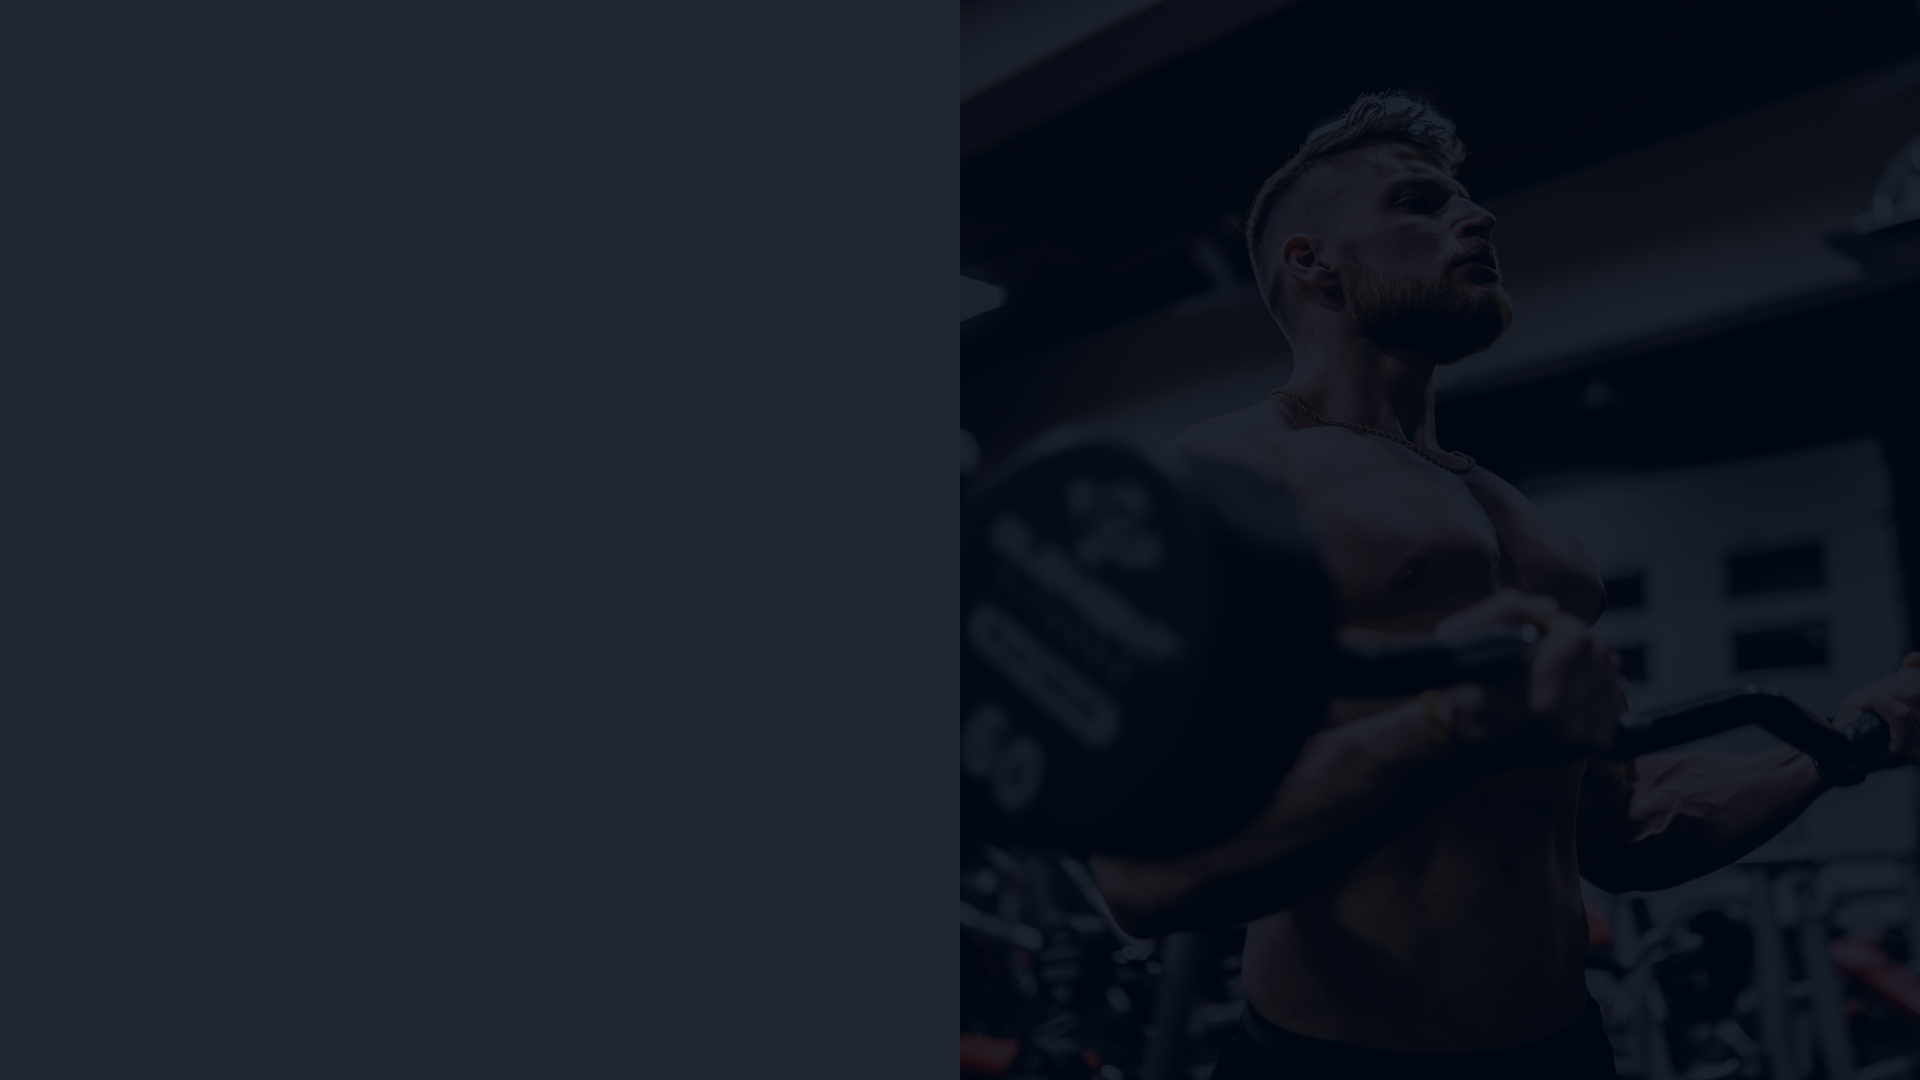
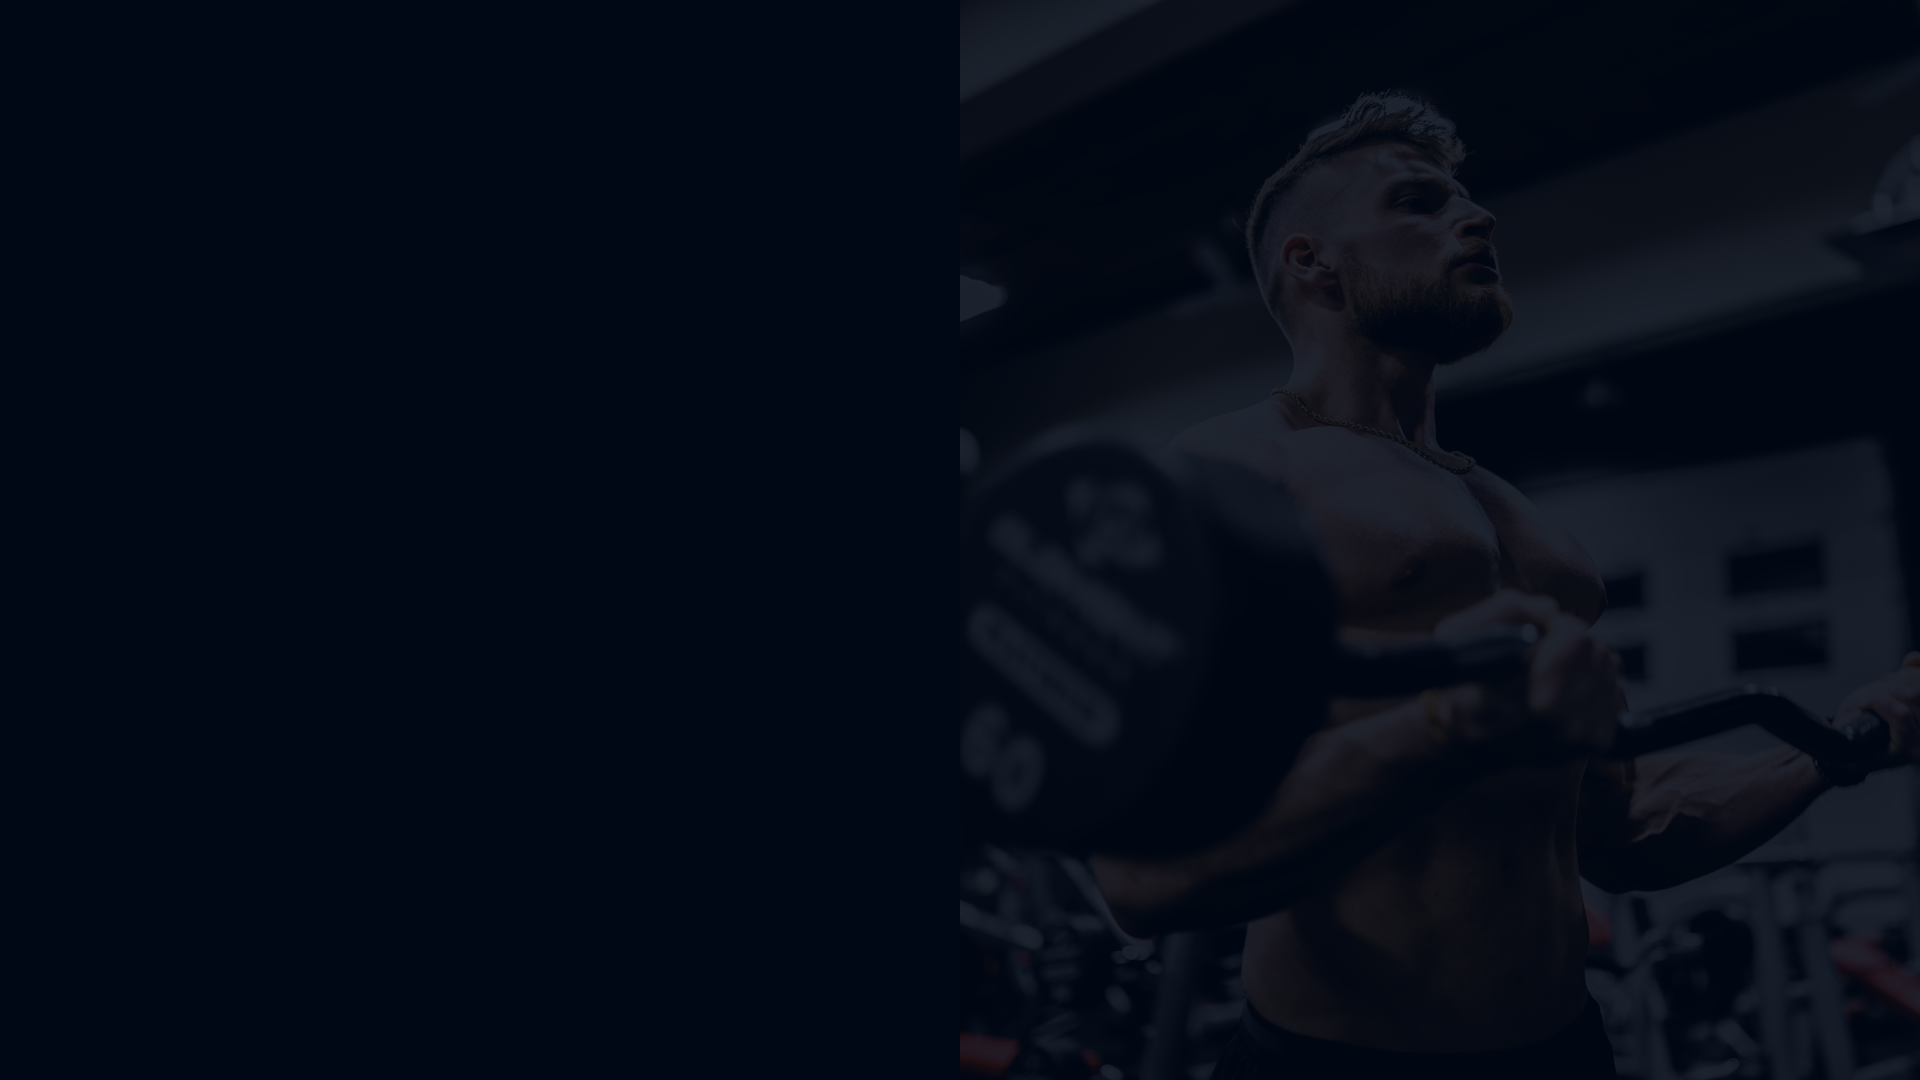
Alterei o Código para o Layout ficar do jeito do protótipo

diff --git a/login.css b/login.css
@@ -10,56 +10,53 @@ body *{
     box-sizing: border-box;
 }
 
-.main-login{
+.container{
     width: 100vw;
     height: 100vh;
-    background-image: url(./img/bg.png);
+    background: url(./img/bg.png);
     background-repeat: no-repeat;
     background-size: cover;
     background-attachment: fixed;
     display: flex;
     justify-content: center;
     align-items: center;
-    padding-right: 29.4%;
 }
 
 .left-login{
     background-color: #000815;
-    width: 50vw;
+    width: 56vw;
     height: 100vh;
     display: flex;
     justify-content: center;
     align-items: center;
     flex-direction: column;
+    margin-left: -22.4%;
 }
 
-.left-login h1{
-    color: white;
-}
-
-.rigth-login{
-    width: 100vw;
-    height: 100vh;
+.left-login img{
     display: flex;
-    justify-content: center;
     align-items: center;
+    justify-content: center;
 }
 
+.right-login{
+    background-color: transparent;
+    margin-left: 175px;
+}
 .card-login{
-    width: 100%;
-    display: flex;
-    justify-content: center;
-    align-items: center;
-    flex-direction: column;
+    width: 130%;
     padding: 30px 35px;
-    background: #001029;
-    border-radius: 40px;
+    background-color: #001f519d;
+    border-radius: 25px;
+    margin: 0;
 }
 
 .card-login h1{
     color: white;
     margin: 0;
-    padding: 12px;
+    text-align: center;
+    padding: 5%;
+    font-size: 35pt;
 }
 
 .textfield{
@@ -73,63 +70,66 @@ body *{
 .textfield input{
     width: 100%;
     border: none;
-    border-radius: 7px;
     padding: 15px;
     font-size: 12pt;
     outline: none;
     box-sizing: border-box;
+    border-radius: 10px;
+    background-color: transparent;
+    border-bottom: 1px solid #e1e1e1;
+    color: white;
 }
 
 .textfield label{
     color: white;
-    margin-bottom: 10px;
+    font-size: 15pt;
+    margin-top: 15px;
+}
+
+.btn{
+    display: flex;
+    align-items: center;
+    justify-content: center;
+    flex-direction: column;
+    margin-top: 10px;
 }
 
 .btn-login{
-    width: 85%;
+    width: 91%;
+    margin: 10px;
     padding: 16px 0px;
-    margin: 25px;
     cursor: pointer;
-    border: none;
-    border-radius: 8px;
+    border-radius: 10px;
+    color: #ffffff;
+    font-size: 12pt;
+    font-weight: bold;
+    background-color: transparent;
+    outline: none;
+    border: 1px solid white;
 }
 
 .btn-login:hover{
-    background-color: #0040a8;
+    background-color: #003a98;
     color: white;
-    transition: all .3s;
+    transition: all .5s ease-in-out;
+    border: none;
 }
 
-@media only screen and (max-device-width: 950px) {
-    /* .menu { width:100%; } */
-    .card-login{
-        width: 85%;
-    }
+.btn-cadastro{
+    width: 91%;
+    margin: 10px;
+    padding: 16px 0px;
+    cursor: pointer;
+    border: none;
+    border-radius: 10px;
+    color: #001f51;
+    font-size: 12pt;
+    font-weight: bold;
 }
 
-@media only screen and (max-device-width: 600px) {
-    /* .menu { width:100%; } */
-    .main-login{
-        flex-direction: column;
-    }
-
-    .left-login img{
-        width: 359px;
-        height: 142px;
-        margin: 0;
-    }
-
-    .left-login{
-        width: 100%;
-        height: auto;
-    }
-
-    .right-login{
-        width: 100%;
-        height: auto;
-    }
-
-    .card-login{
-        width: 90%;
-    }
+.btn-cadastro:hover{
+    background-color: #003a98;
+    color: white;
+    transition: all .5s;
+    border: none;
 }

diff --git a/login.html b/login.html
@@ -9,27 +9,32 @@
 </head>
 <body>
 
-<div class="main-login">
+<div class="container">
     <div class="left-login">
-        <img src="./img/logo.png" alt="" width="641px" height="254px">
+        <img src="./img/logo.png" width="641px" height="254px">
     </div>
 
     <div class="right-login">
-        <div class="card-login">
-            <h1>Login</h1>
-            <div class="textfield">
-                <label for="usuario">Usuário</label>
-                <input type="text" name="usuario" placeholder="Digite o CPF do aluno">
-            </div>
+       <div class="card-login">
 
-            <div class="textfield">
-                <label for="senha">Senha</label>
-                <input type="password" name="senha" placeholder="Digite a senha">
-            </div>
+        <h1>Login</h1>
 
-            <button class="btn-login">Login</button>
-
+        <div class="textfield">
+            <label for="usuario">Usuário</label>
+            <input type="text" name="usuario" placeholder="Digite o usuário">
         </div>
+
+        <div class="textfield">
+            <label for="Senha">Senha</label>
+            <input type="password" name="senha" placeholder="Digite a senha">
+        </div>
+
+        <div class="btn">
+        <button class="btn-login">Login</button>
+        <button class="btn-cadastro">Cadastro</button>
+    </div>
+
+       </div>
     </div>
 </div>
 
